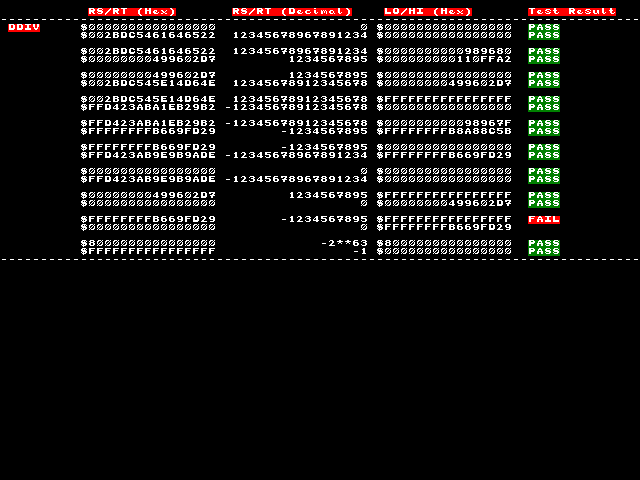
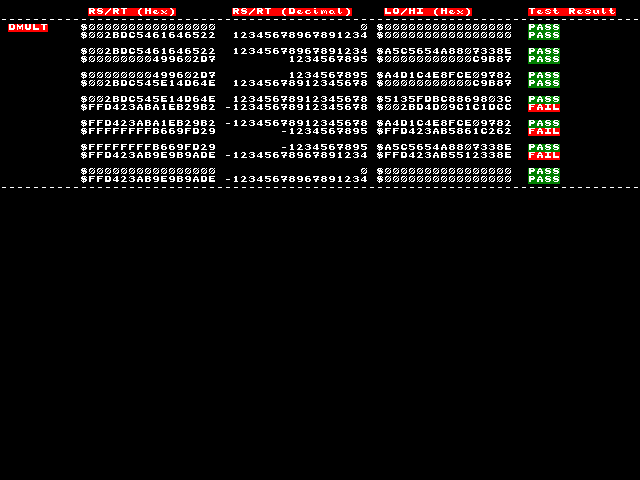
Impl dmultu and multu

diff --git a/src/test.cpp b/src/test.cpp
@@ -146,8 +146,8 @@ void n64_run_tests()
         {"N64/CPUTest/CPU/DDIVU/CPUDDIVU.N64","N64/CPUTest/CPU/DDIVU/CPUDDIVU.png","KROM_CPU_DDIVU",5},
         {"N64/CPUTest/CPU/DIV/CPUDIV.N64","N64/CPUTest/CPU/DIV/CPUDIV.png","KROM_CPU_DIV",5},
         {"N64/CPUTest/CPU/DIVU/CPUDIVU.N64","N64/CPUTest/CPU/DIVU/CPUDIVU.png","KROM_CPU_DIVU",5},
-        //{"N64/CPUTest/CPU/DMULT/CPUDMULT.N64","N64/CPUTest/CPU/DMULT/CPUDMULT.png","KROM_CPU_DMULT",5},
-        //{"N64/CPUTest/CPU/DMULTU/CPUDMULTU.N64","N64/CPUTest/CPU/DMULTU/CPUDMULTU.png","KROM_CPU_DMULTU",5},
+        {"N64/CPUTest/CPU/DMULT/CPUDMULT.N64","N64/CPUTest/CPU/DMULT/CPUDMULT.png","KROM_CPU_DMULT",5},
+        {"N64/CPUTest/CPU/DMULTU/CPUDMULTU.N64","N64/CPUTest/CPU/DMULTU/CPUDMULTU.png","KROM_CPU_DMULTU",5},
         {"N64/CPUTest/CPU/DSUB/CPUDSUB.N64","N64/CPUTest/CPU/DSUB/CPUDSUB.png","KROM_CPU_DSUB",5},
         {"N64/CPUTest/CPU/DSUBU/CPUDSUBU.N64","N64/CPUTest/CPU/DSUBU/CPUDSUBU.png","KROM_CPU_DSUBU",5},
     };

diff --git a/src/n64/instr/instr_r.cpp b/src/n64/instr/instr_r.cpp
@@ -262,12 +262,28 @@ void instr_mult(N64 &n64, const Opcode &opcode)
 
 void instr_dmultu(N64 &n64, const Opcode &opcode)
 {
-    instr_unknown_r(n64,opcode);
+#ifdef _MSC_VER
+    static_assert(false);
+#else
+    using u128 = unsigned __int128;
+
+    const u128 ans = u128(n64.cpu.regs[opcode.rs]) * u128(n64.cpu.regs[opcode.rt]);
+    n64.cpu.lo = ans & 0xffff'ffff'ffff'ffff;
+    n64.cpu.hi = ans >> 64;
+#endif
 }
 
 void instr_dmult(N64 &n64, const Opcode &opcode)
 {
-    instr_unknown_r(n64,opcode);
+#ifdef _MSC_VER
+    static_assert(false);
+#else
+    using s128 = __int128;
+
+    const s128 ans = s128(s64(n64.cpu.regs[opcode.rs])) * s128(s64(n64.cpu.regs[opcode.rt]));
+    n64.cpu.lo = ans & 0xffff'ffff'ffff'ffff;
+    n64.cpu.hi = ans >> 64;
+#endif
 }
 
 void instr_break(N64 &n64, const Opcode &opcode)
